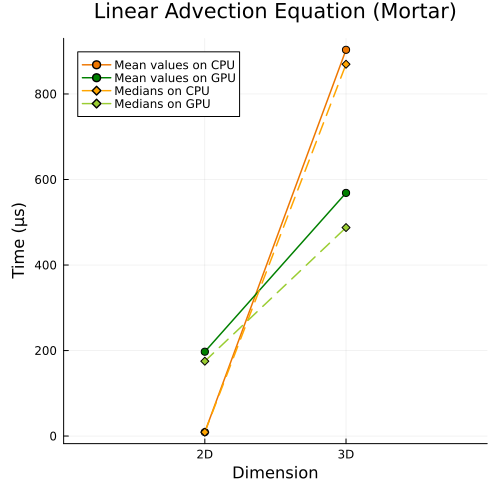
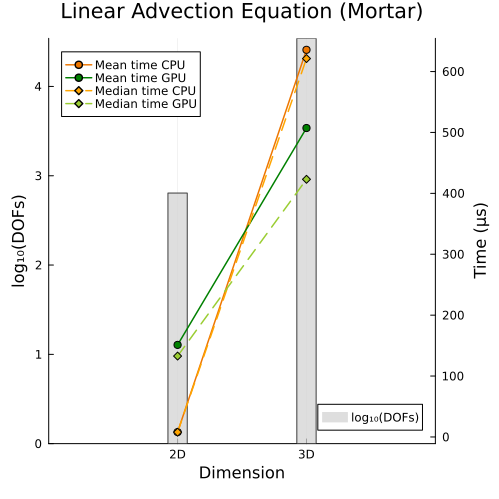
Add DOFs

diff --git a/benchmark.md b/benchmark.md
@@ -4,6 +4,8 @@
 
 See the benchmarking file at [benchmark.ipynb](https://github.com/trixi-gpu/TrixiCUDA.jl/blob/v0.1.0-rc.2/benchmark/benchmark.ipynb), and all results are compared between [TrixiCUDA.jl v0.1.0-rc.2](https://github.com/trixi-gpu/TrixiCUDA.jl/tree/v0.1.0-rc.2) and [Trixi.jl v0.11.17](https://github.com/trixi-framework/Trixi.jl/tree/v0.11.17).
 
+We mainly show the mean and median times on CPU and GPU for each example, and include the degrees of freedom (DOFs) per field (i.e., per independent solution variable) in each plot, since DOFs are a dominant factor (though not the only factor) affecting computational time.
+
 We provide the link to each example in Trixi.jl as it is a more mature and stable package compared to TrixiCUDA.jl. Note that performance varies with different inputs; these benchmark results are provided for reference only.
 
 ## Linear Advection Equation
@@ -94,4 +96,4 @@ Right: Shallow water equations with source terms ([1D](https://github.com/trixi-
 ~~~
 
 ## Takeaway
-For simple cases (for example, if the CPU performance is less than 100 μs), it is not advantageous to run on the GPU, since the overhead of using the GPU outweighs any performance gain. However, for more complex cases (such as when execution time on the CPU exceeds 1,000 μs), running on the GPU can provide significant benefits.
+For simple cases (for example, if the CPU performance is less than 100 μs), it is not advantageous to run on the GPU, since the overhead of using the GPU outweighs any performance gain. However, for more complex cases (such as when execution time on the CPU exceeds 1,000 μs), running on the GPU can provide significant benefits. Also, remember that DOFs are the dominant, but not the sole—factor, affecting computation time.
